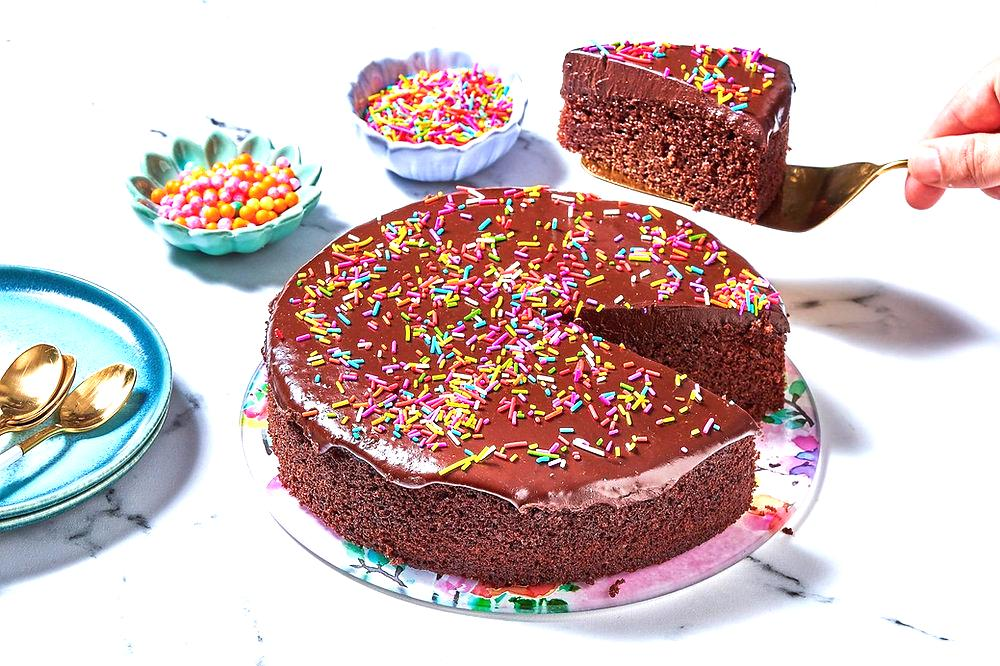
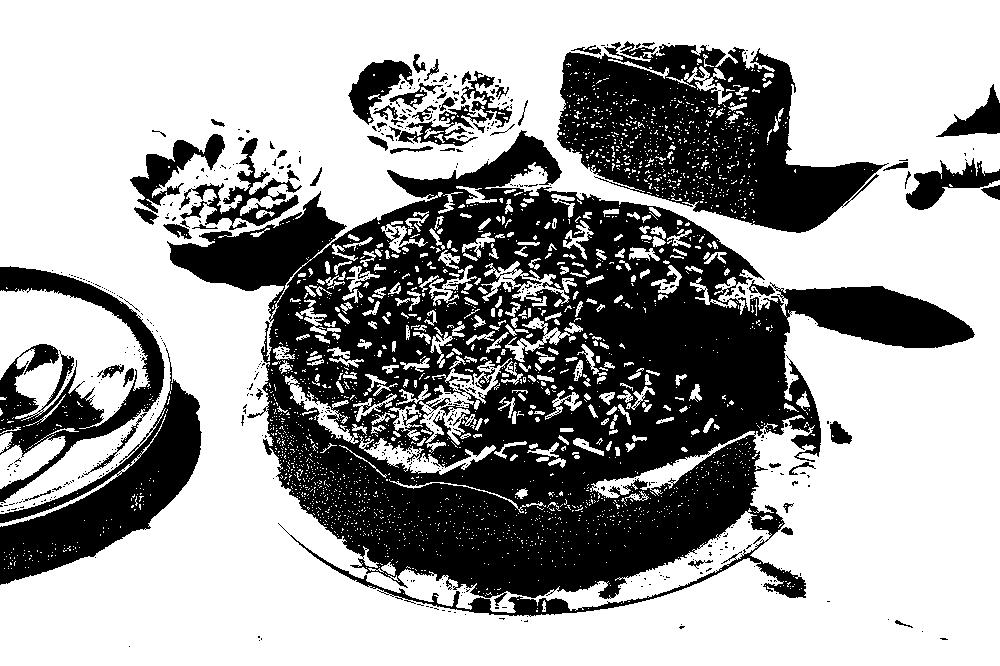
regular

diff --git a/src/main/java/YearA/TermB/SadnaTech/ForExam/ImageProcess2/Main.java b/src/main/java/YearA/TermB/SadnaTech/ForExam/ImageProcess2/Main.java
@@ -11,7 +11,7 @@ import static java.lang.Math.round;
 public class Main {
     public static void main(String[] args) {
         try {
-            File file = new File("/Users/shaya/Library/CloudStorage/OneDrive-Personal/intelliJ-Main/AACmaven/src/main/resources/Cake.jpg");
+            File file = new File("C:\\Users\\lior1\\OneDrive\\intelliJ-Main\\AACmaven\\src\\main\\resources\\Cake.jpg");
             if(file.exists()){
                 System.out.println("File exist");
                 BufferedImage myImage = ImageIO.read(file);
@@ -22,16 +22,18 @@ public class Main {
                     for (int j = 0; j < height; j++) {
                         int rgb = myImage.getRGB(i,j);
                         Color color = new Color(rgb);
-                        int red = round(color.getRed()*bright)>255? 255 : (int)round(color.getRed()*bright);
-                        int green = round(color.getGreen()*bright)> 255? 255 : (int)round(color.getGreen()*bright);
-                        int blue = round(color.getBlue()*bright)>255? 255 : (int)round(color.getBlue()*bright);
-                        Color color1 = new Color(red , green ,blue);
-                        myImage.setRGB(i,j,color1.getRGB());
+                        int th = 255/2;
+                        int avg = (color.getRed() + color.getGreen() + color.getBlue())/3;
+                        int red = avg > th? 255 : 0;
+                        int green = avg > th? 255 : 0;
+                        int blue = avg > th? 255 : 0;
+                        Color newColor = new Color(red,green,blue);
+                        myImage.setRGB(i,j,newColor.getRGB());
 
                     }
                 }
 
-                File output = new File("/Users/shaya/Library/CloudStorage/OneDrive-Personal/intelliJ-Main/AACmaven/src/main/resources/Cake1.jpg");
+                File output = new File("C:\\Users\\lior1\\OneDrive\\intelliJ-Main\\AACmaven\\src\\main\\resources\\Cake1.jpg");
                 ImageIO.write(myImage,"jpg",output);
 
             }else{
@@ -42,3 +44,8 @@ public class Main {
         }
     }
 }
+//                        int red = round(color.getRed()*bright)>255? 255 : (int)round(color.getRed()*bright);
+//                        int green = round(color.getGreen()*bright)> 255? 255 : (int)round(color.getGreen()*bright);
+//                        int blue = round(color.getBlue()*bright)>255? 255 : (int)round(color.getBlue()*bright);
+//                        Color color1 = new Color(red , green ,blue);
+//                        myImage.setRGB(i,j,color1.getRGB());

diff --git a/src/main/java/YearA/TermB/SadnaTech/ForExam/API/API1/Main.java b/src/main/java/YearA/TermB/SadnaTech/ForExam/API/API1/Main.java
@@ -19,5 +19,4 @@ public class Main {
             throw new RuntimeException(e);
         }
     }
-
 }
